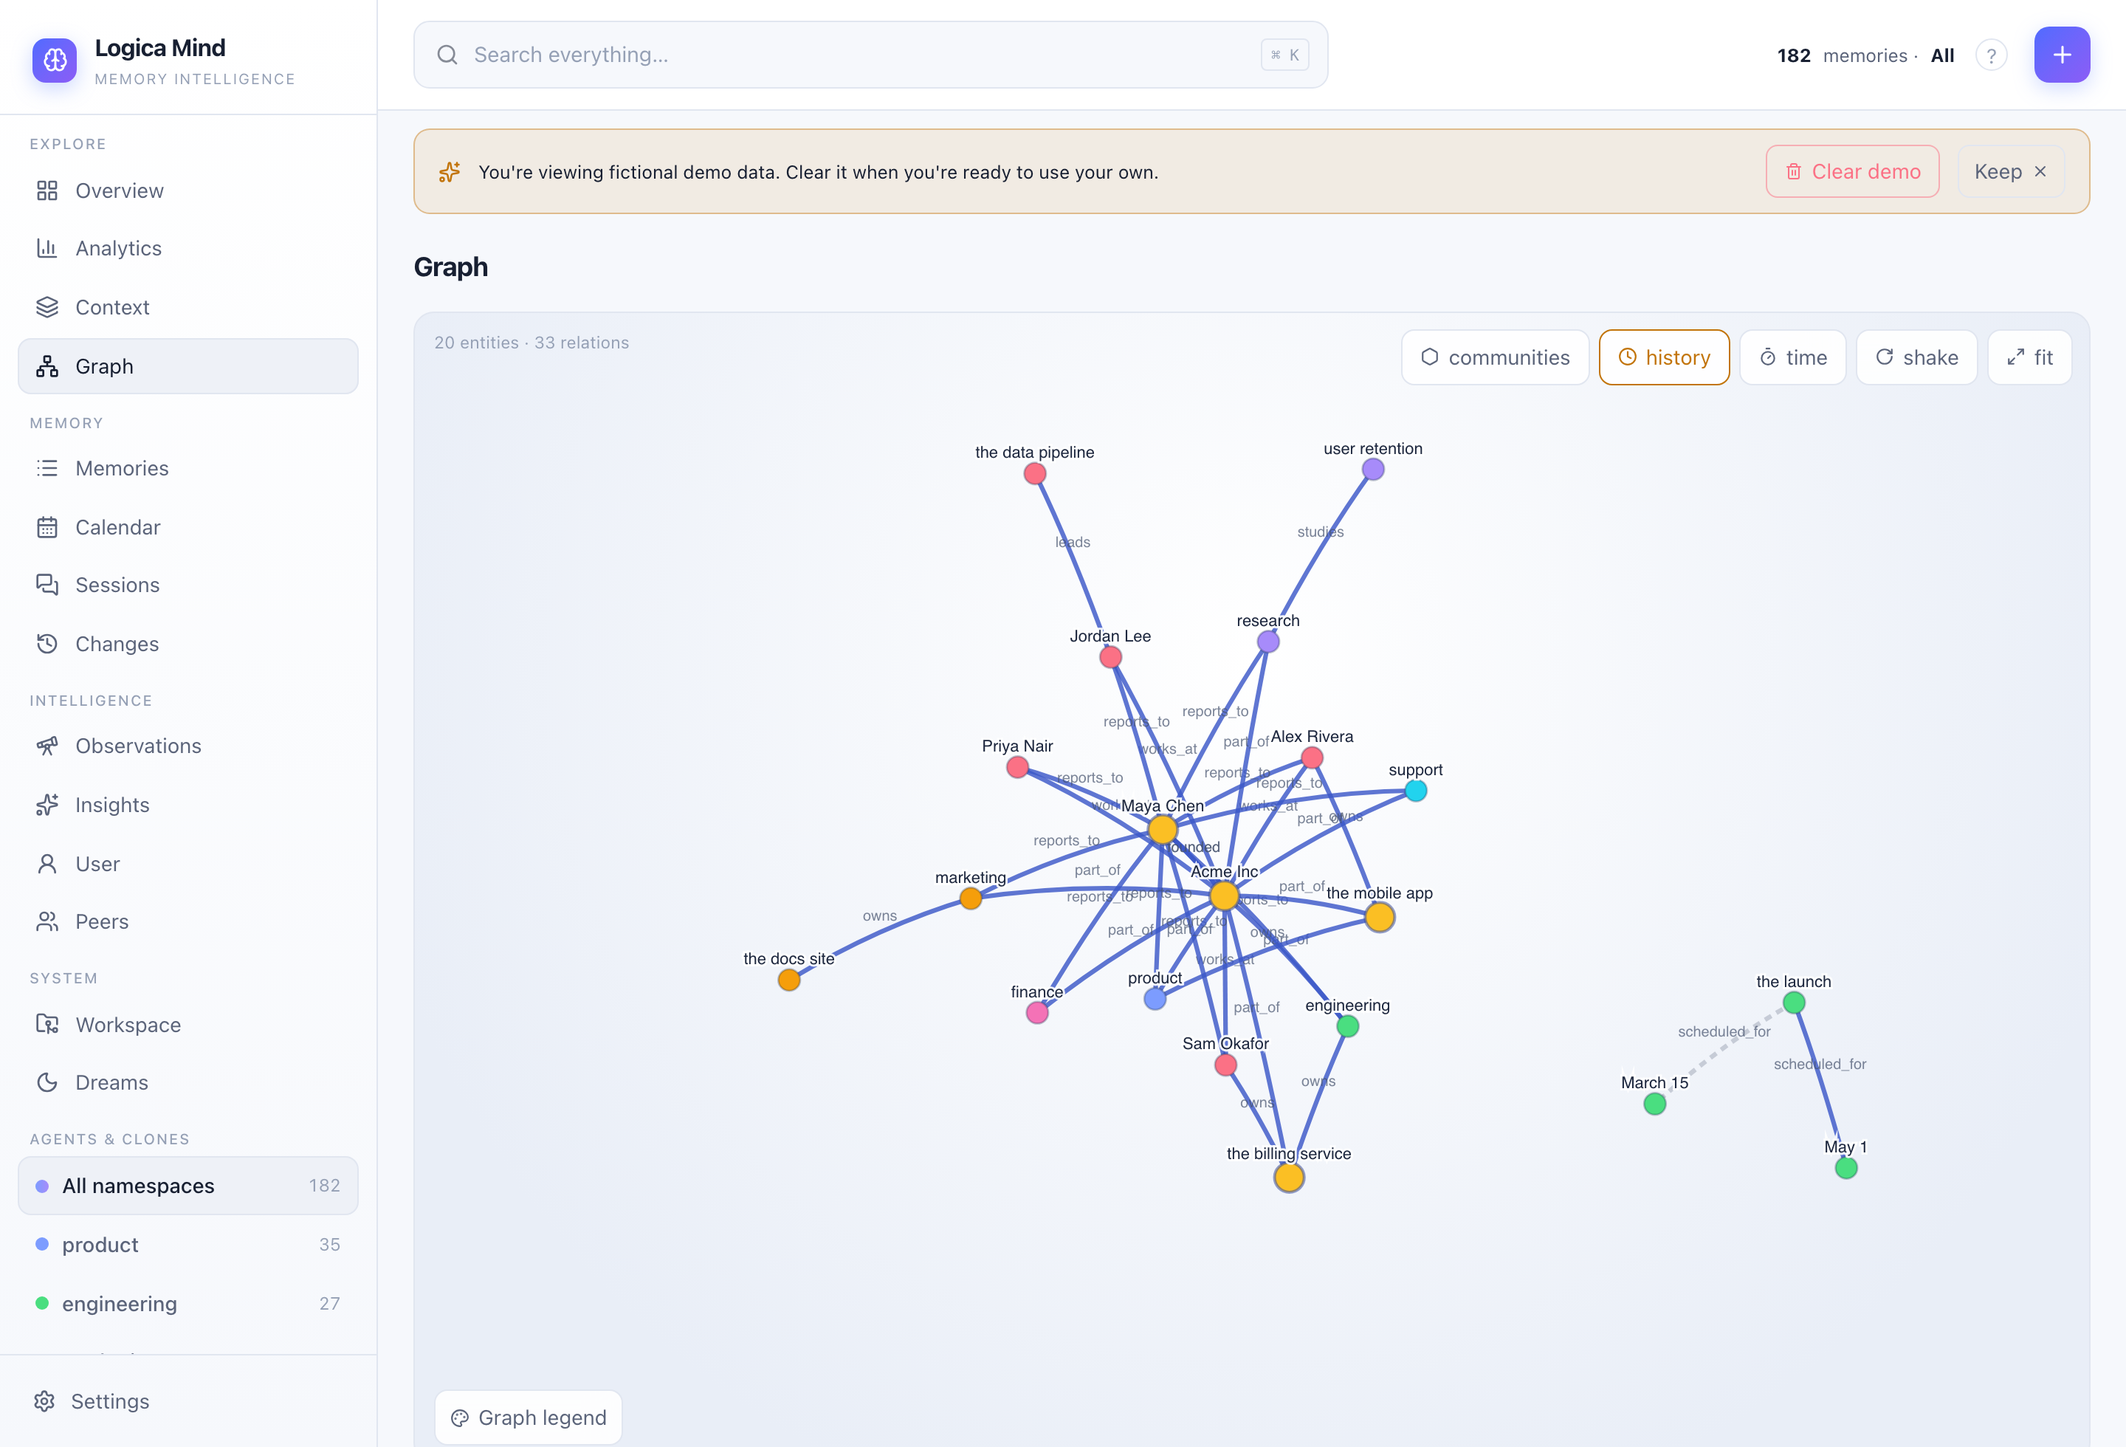
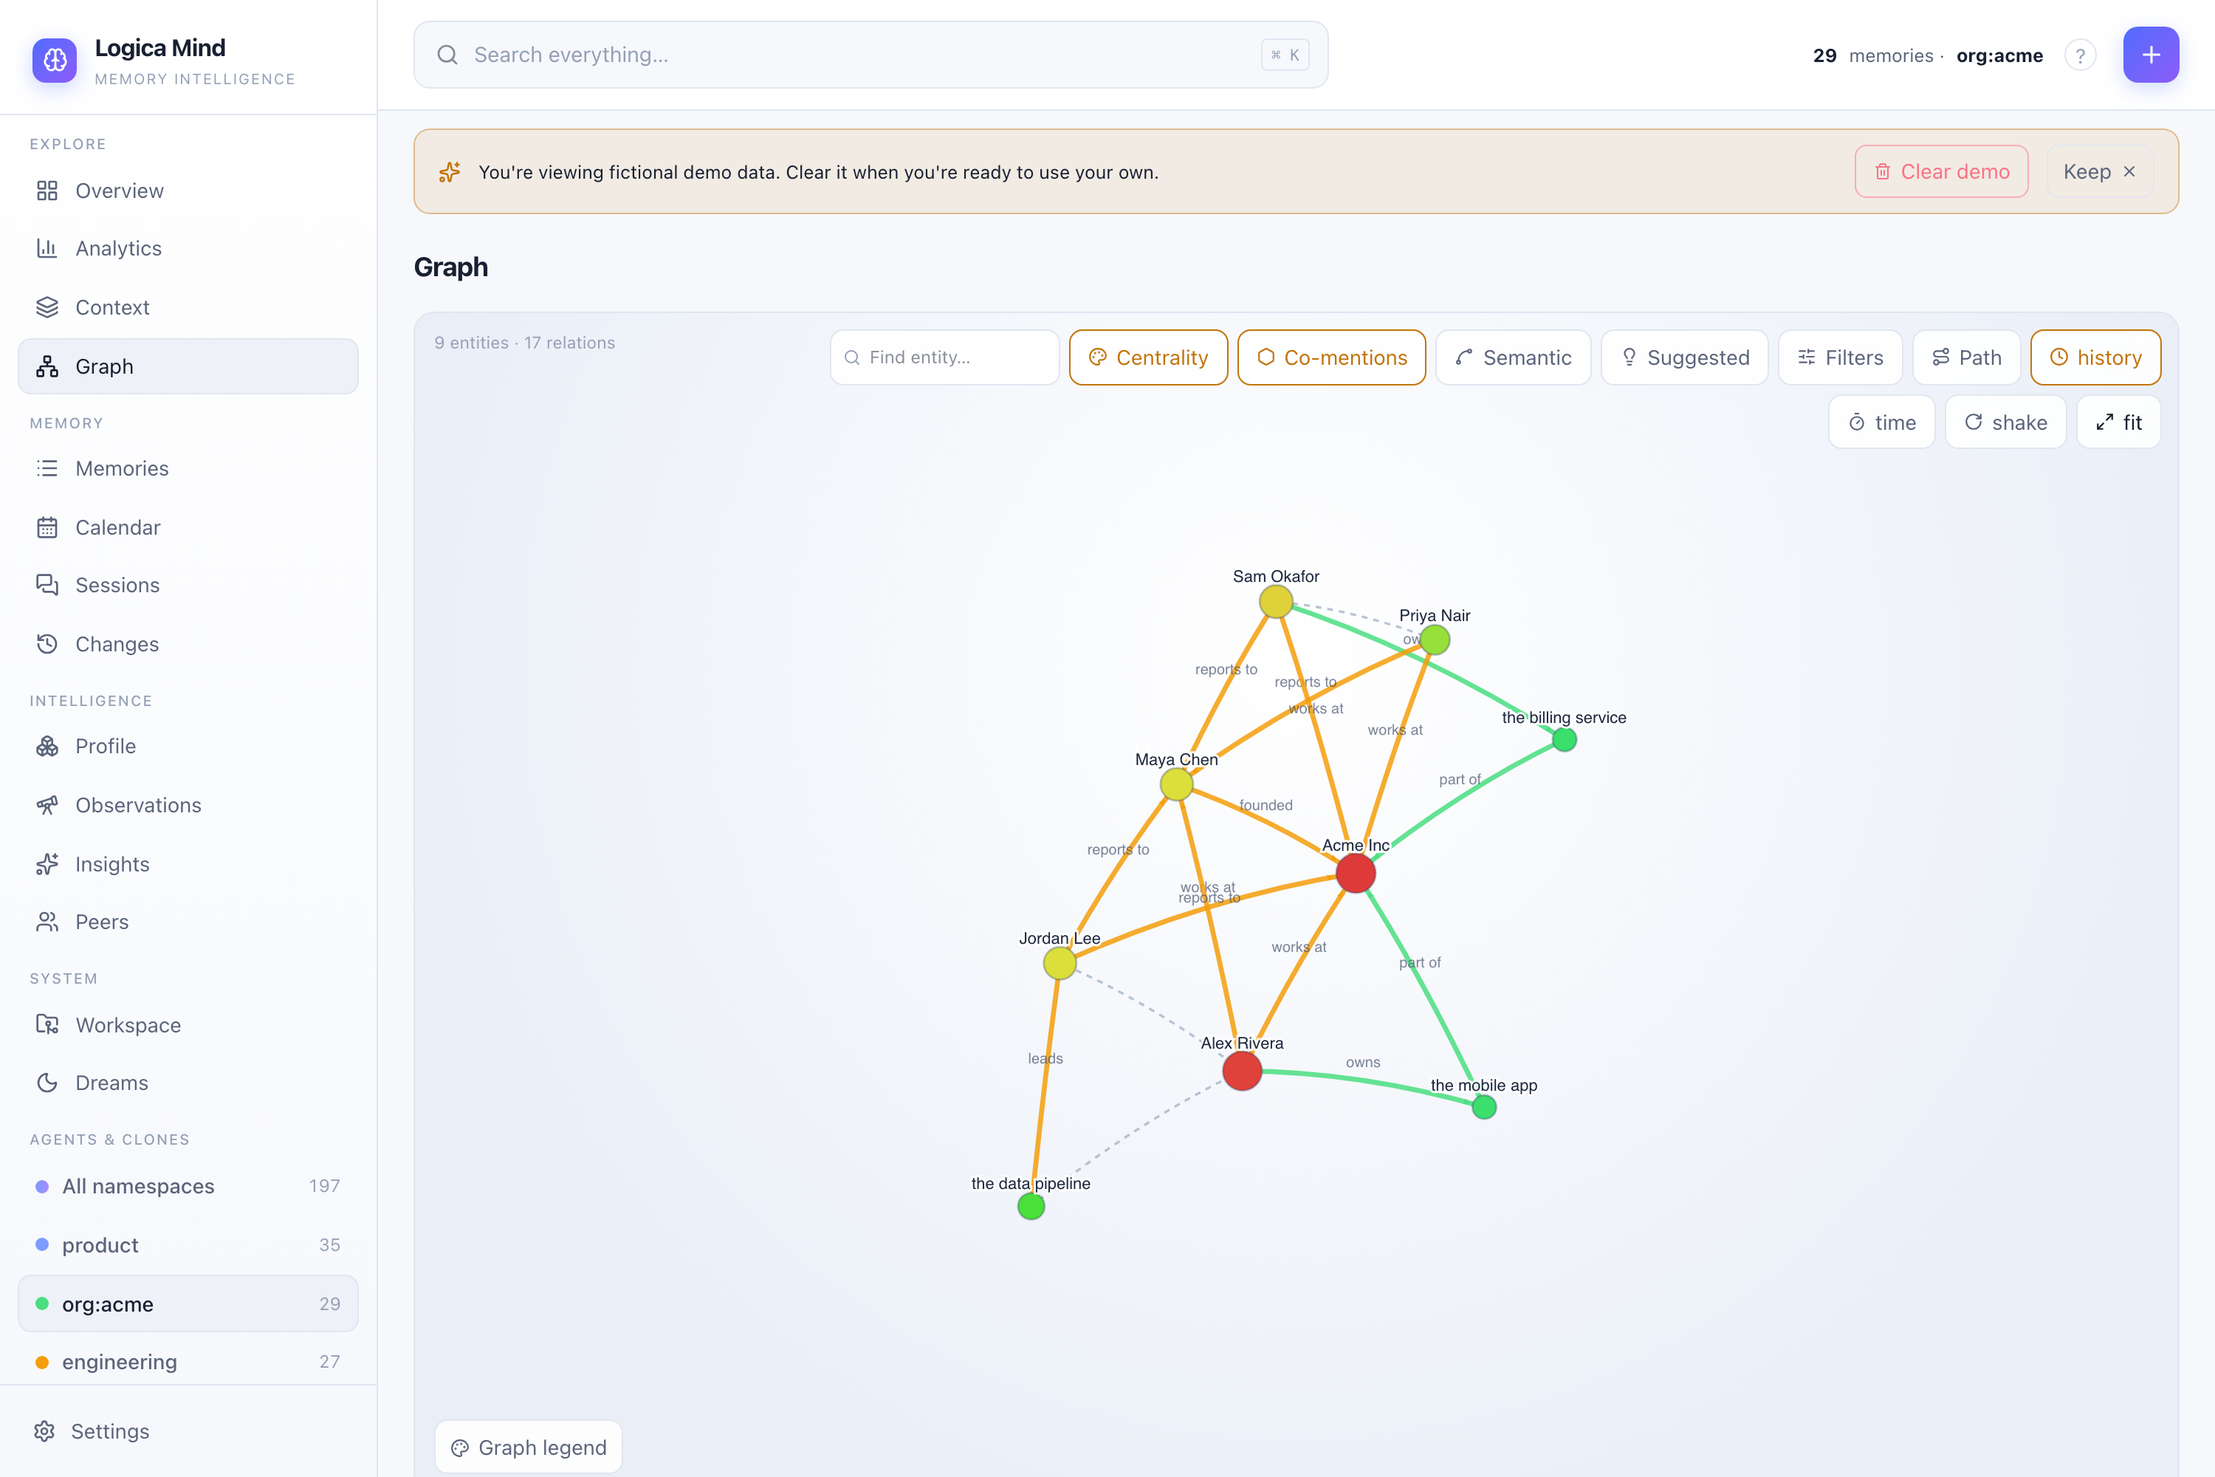
docs: document the intelligent graph (32 tools, 189 tests) + new screenshots
- knowledge-graph.md: connection layers, how_related, bridges, suggested
  links, local/hover/filters. mcp.md: a Graph-intelligence section with the
  3 new tools; counts 29→32. README hero + graph moat rewritten; badges
  189 tests / 32 tools. CHANGELOG Unreleased graph section.
- New light-theme screenshots: the edge-grammar graph (hero) + Path mode
  ('how is A related to B?') tracing & spotlighting a path.

diff --git a/README.md b/README.md
@@ -8,8 +8,8 @@
 
 [![License: Apache 2.0](https://img.shields.io/badge/License-Apache_2.0-blue.svg)](LICENSE)
 [![Python 3.10+](https://img.shields.io/badge/python-3.10%2B-blue.svg)](https://www.python.org/)
-[![Tests](https://img.shields.io/badge/tests-183%20passing-brightgreen.svg)](#%EF%B8%8F-building-from-source)
-[![MCP](https://img.shields.io/badge/MCP-29%20tools-8A2BE2.svg)](#-model-context-protocol-mcp)
+[![Tests](https://img.shields.io/badge/tests-189%20passing-brightgreen.svg)](#%EF%B8%8F-building-from-source)
+[![MCP](https://img.shields.io/badge/MCP-32%20tools-8A2BE2.svg)](#-model-context-protocol-mcp)
 [![PRs welcome](https://img.shields.io/badge/PRs-welcome-orange.svg)](CONTRIBUTING.md)
 
 </div>
@@ -34,14 +34,14 @@ mind.contradictions()            # every belief that changed value — and exact
 ```
 
 It runs fully offline on the standard library — **zero dependencies, no API key
-to start** — and is covered by **183 tests**, so you can verify every claim on
+to start** — and is covered by **189 tests**, so you can verify every claim on
 this page in five minutes. It then lights up Voyage, OpenAI, Supabase, Postgres
 or Redis whenever you want them.
 
 <div align="center">
-  <img src="docs/img/dashboard-graph.png" alt="Logica Mind dashboard — live temporal knowledge graph" width="100%">
+  <img src="docs/img/dashboard-graph.png" alt="Logica Mind dashboard — the intelligent temporal knowledge graph" width="100%">
   <br>
-  <em>The built-in dashboard: a live, animated knowledge graph with point-in-time replay, shared-entity detection across agents, and a one-click demo you can clear.</em>
+  <em>The built-in dashboard: edges hued by relation type, nodes sized by centrality, emergent co-mentions, a full filter bar, point-in-time replay — and intelligence (path-finding, bridges, suggested links) a hand-linked note graph can't have.</em>
 </div>
 
 ---
@@ -165,7 +165,7 @@ bundle = mind.export_bundle(secret=k)  # HMAC-signed, portable memory you can mo
 
 ### 🖥 Built to be lived in
 
-- **A live, animated graph explorer** — Obsidian-style canvas physics, community coloring, confidence-weighted edges, entity drill-down, and a **time-scrubber** that replays the graph at any date. Toggle **colour-by-life-area** to paint every entity by its dominant dimension (Person / Projects / Organization / Business) and filter the graph down to one area. Served by the standard library — no Node required for end users.
+- **A graph that explains itself** — not a hairball of identical lines. Edges are **hued by relation type** with directional arrows and confidence-weighted width; nodes are **sized by PageRank centrality** so hubs stand out. A real top filter bar: **colour by** namespace / community / life-area / centrality, toggle connection **layers** (relations, co-mentions, semantic affinity, suggested), search-to-focus, a min-confidence declutter slider, and per-relation-type filters. Plus the intelligence a hand-linked note graph can't have: **"how is A related to B?"** (a narrated, spotlighted path), **bridges** (load-bearing connectors), **suggested links** (the edge you're missing, predicted), a **local/ego graph** with a depth slider, **hover previews**, and a **time-scrubber** that replays the graph at any past date. Served by the standard library — no Node for end users.
 - **Backlinks that write themselves** — Obsidian makes you *type* `[[links]]`; here the connective tissue is **inferred**. Open any memory and the **Connected** panel shows the entities it mentions, the relations among them, other notes that touch the same entities, and siblings sharing its category — all derived from the graph, nothing to maintain. Click to walk note-to-note; `[[wikilinks]]` in content are clickable too. Exposed as `mind.connections(id)` and the `lm_connected` MCP tool.
 - **Context survives compaction** — a `PreCompact` hook distills the conversation into durable memory *right before the host truncates the window*, then brings the relevant slice back on the next session. The fix for "it compacted and we lost everything."
 - **Sessions that follow you across machines** — sessions auto-name from their first message, can be renamed and exported, and import directly from your local assistant history. Take your session index anywhere.
@@ -205,7 +205,7 @@ assistant's context layer.
 
 ## 🔌 Model Context Protocol (MCP)
 
-Logica Mind is a full MCP server — **29 tools** covering memory, recall, the
+Logica Mind is a full MCP server — **32 tools** covering memory, recall, the
 temporal graph, peers, dreaming, contested beliefs, the forgetting curve, GDPR
 erase and structured session records. Point any MCP client (Claude Code, Cursor,
 …) at it and your assistant gets durable, queryable memory:
@@ -286,7 +286,7 @@ Full guides live in [`docs/`](docs/):
 ```bash
 git clone https://github.com/Rovemark/logica-mind.git
 cd logica-mind
-pip install -e ".[dev]" && pytest -q          # 183 tests, fully offline
+pip install -e ".[dev]" && pytest -q          # 189 tests, fully offline
 
 # rebuild the dashboard (only if you change the UI)
 cd logica_mind/web/app && npm ci && npm run build
@@ -298,7 +298,7 @@ See [CONTRIBUTING.md](CONTRIBUTING.md) for the full guide.
 
 ## 📦 Status
 
-**v0.1.0 — Beta.** The full feature set above is shipped and covered by 183 tests.
+**v0.1.0 — Beta.** The full feature set above is shipped and covered by 189 tests.
 Episodic, semantic, temporal-graph and dialectic user memory; automatic
 extraction; embeddings + reranking; a temporal knowledge graph; sleep-time
 consolidation; an MCP server and a self-hosted dashboard — one cohesive library,

diff --git a/docs/knowledge-graph.md b/docs/knowledge-graph.md
@@ -343,6 +343,51 @@ Each node in the `graph_viz` payload also carries a `dimension` field when one c
 
 Any entity (and any memory) exposes its neighborhood through [`mind.connections(id)`](./connections.md) — the relations touching it, the other memories that mention it, and siblings of the same category. It's the derived-backlink layer the dashboard's **Connected** panel renders.
 
+## Graph intelligence
+
+The graph doesn't just draw — it reasons about its own structure. Each of these is pure-Python over the temporal graph (no LLM), exposed in the dashboard, the REST API and as an MCP tool.
+
+### Connection layers
+
+`graph_viz(layers=[…])` returns more than explicit relations. Every link carries a `kind`:
+
+- **relation** — an explicit typed edge (always on), `directed`, `weight` = confidence, plus a `pclass` (predicate class: social / has / causal / locative / temporal / is_a) the canvas hues it by.
+- **co_mention** — an *emergent* link between two entities a single memory names together, with no explicit edge. One regex scan, capped per memory. The computed version of Obsidian's "unlinked mention".
+- **semantic** — *opt-in*. Entity pairs whose memory-neighbourhoods are close in vector space but unlinked. Built from stored embeddings only (never embeds in the request path), capped to the busiest entities. Meaningful with a real embedder.
+
+Every node also carries a **`centrality`** (normalized PageRank) for sizing, a **`degree`**, and a **`bridge`** flag (see below).
+
+### How is A related to B?
+
+```python
+mind.how_related("the billing service", "Priya Nair")
+# → the billing service --part_of--> Acme Inc --works_at--> Priya Nair
+```
+
+A confidence-weighted shortest path (Dijkstra, cost = 1/confidence) returned as an ordered chain of **typed** hops. The dashboard's **Path** mode traces it and spotlights it on the canvas — path nodes gold-ringed, path edges gold, everything else dimmed. The question a graph of hand-authored, untyped links can't answer. MCP: `lm_how_related`.
+
+![Path mode — how is A related to B?](img/dashboard-graph-path.png)
+
+### Bridges
+
+```python
+mind.bridges()    # entities whose removal fragments the graph (articulation points)
+```
+
+The load-bearing connectors that broker between otherwise-separate clusters — often low-degree nodes that centrality ranking misses. Flagged on nodes (`bridge: true`) and ringed on the canvas. MCP: `lm_bridges`.
+
+### Suggested links (predict the missing edge)
+
+```python
+mind.suggested_links()   # pairs with a strong shared neighbourhood but no edge
+```
+
+Link prediction by Adamic-Adar: entity pairs with no direct relation but many common neighbours — "these two probably relate, you just never said so". A **Suggested** layer overlays them as dashed candidate edges. The biggest "nobody has this" moment — note tools make you author every link. MCP: `lm_suggested_links`.
+
+### Local graph, hover & filters
+
+The dashboard adds a **local/ego graph** (focus an entity → collapse to its neighbourhood, with a 1–3 hop depth slider), **hover previews** (a node's top facts without a click), search-to-focus, a min-confidence declutter slider, per-predicate-class filters, and **colour-by** (namespace / community / life-area / centrality) plus a highlight-by-query colour group.
+
 ---
 
 ## See also

diff --git a/docs/mcp.md b/docs/mcp.md
@@ -2,7 +2,7 @@
 
 Run Logica Mind as a Model Context Protocol (MCP) server so any MCP client — Claude Code, Cursor, Windsurf — can use it as durable, queryable memory.
 
-Logica Mind ships a full MCP server that exposes its memory verbs as **29 tools**. It speaks JSON-RPC 2.0 over stdio (newline-delimited) using only the Python standard library — no extra dependencies, no network service. Point an MCP client at it and your assistant gets long-term memory, a temporal knowledge graph, peer modeling, sleep-time consolidation and structured run history.
+Logica Mind ships a full MCP server that exposes its memory verbs as **32 tools**. It speaks JSON-RPC 2.0 over stdio (newline-delimited) using only the Python standard library — no extra dependencies, no network service. Point an MCP client at it and your assistant gets long-term memory, a temporal knowledge graph, peer modeling, sleep-time consolidation and structured run history.
 
 Like the rest of the library, the default setup is offline and zero-key: a SQLite store plus the built-in hashing embedder, no API keys required. See [Installation](./installation.md) for the dependency-free install.
 
@@ -61,7 +61,7 @@ Cursor uses the same shape. To pin a specific database and namespace, pass them 
 }
 ```
 
-After the client connects, the 29 tools below appear in its tool list. Both clients speak protocol version `2024-11-05`, which the server supports; if a client requests a version the server doesn't implement, the server advertises its own latest version and lets the client decide.
+After the client connects, the 32 tools below appear in its tool list. Both clients speak protocol version `2024-11-05`, which the server supports; if a client requests a version the server doesn't implement, the server advertises its own latest version and lets the client decide.
 
 ## Source attribution
 
@@ -83,7 +83,7 @@ If a client omits `clientInfo.name`, the source falls back to the generic `mcp`,
 }
 ```
 
-## The 29 tools
+## The 32 tools
 
 All tools are namespaced with the `lm_` prefix. Required arguments are noted; everything else is optional with sensible defaults.
 
@@ -112,6 +112,16 @@ The life/work dimension profile, and the derived backlinks built on top of it an
 |---|---|
 | `lm_dimensions` | The categorization profile: facts grouped by life/work dimension and Maslow tier, with the open categories under each. |
 | `lm_connected` | Derived backlinks for a memory — entities it mentions, the relations among them, and other memories that touch the same entities or category. No manual links needed. |
+
+### Graph intelligence
+
+Make the temporal graph EXPLAIN and PREDICT its own structure. See [Knowledge graph](./knowledge-graph.md).
+
+| Tool | Purpose |
+|---|---|
+| `lm_how_related` | How is entity A related to entity B? The confidence-weighted shortest path, as an ordered chain of typed relationships. |
+| `lm_bridges` | Load-bearing connectors — entities whose removal would fragment the graph (articulation points), the brokers between otherwise-separate clusters. |
+| `lm_suggested_links` | Predict the missing edge — entity pairs with no direct relation but a strong shared neighbourhood (Adamic-Adar). The links you probably should have but never authored. |
 
 ### User model & peers
 

diff --git a/CHANGELOG.md b/CHANGELOG.md
@@ -5,6 +5,23 @@ All notable changes to Logica Mind. Format loosely follows
 
 ## [Unreleased]
 
+### Graph intelligence
+- The knowledge graph became an instrument. Every link now carries a kind
+  (relation / co-mention / semantic), direction, weight and predicate class;
+  every node a PageRank **centrality** and a **bridge** flag. New connection
+  **layers**: emergent **co-mentions** and opt-in **semantic** affinity.
+- New reasoning: **`how_related(a, b)`** (narrated shortest path),
+  **`bridges()`** (articulation points), **`suggested_links()`** (Adamic-Adar
+  link prediction), and **`entity_unlinked()`** (unlinked mentions). Exposed
+  as `lm_how_related` / `lm_bridges` / `lm_suggested_links` and `/api/path`,
+  `/api/bridges`, `/api/suggested`. **MCP server is now 32 tools.**
+- Dashboard graph: an **edge grammar** (hue by relation type, arrows, width by
+  confidence, node size by centrality), a professional **top filter bar**
+  (colour-by, layer toggles, search-focus, min-confidence + predicate filters,
+  highlight-by-query), a **local/ego graph** with a depth slider, **hover
+  previews**, and **Path mode** that traces & spotlights "how is A related to
+  B?". Predicate labels localize (pt/es) with a graceful fallback.
+
 ### Fact categorization
 - Every durable fact is tagged with a **category** (an open label the LLM coins)
   and a **dimension** from a 34-dimension taxonomy across four groups — Personal

diff --git a/docs/README.md b/docs/README.md
@@ -25,7 +25,7 @@ New here? Start with **[Installation](installation.md)** → **[Quickstart](quic
 - [Sessions & run records](sessions-and-records.md) — session scoping and structured runs
 
 ### Interfaces
-- [MCP server](mcp.md) — use Logica Mind as a Model Context Protocol server (29 tools)
+- [MCP server](mcp.md) — use Logica Mind as a Model Context Protocol server (32 tools)
 - [Auto-capture hooks](hooks.md) — capture memory automatically across a session
 - [Integrations & SDKs](integrations.md) — LangChain, LlamaIndex, the provider adapter, the TypeScript SDK
 - [Dashboard](dashboard.md) — the self-hosted web UI

diff --git a/CONTRIBUTING.md b/CONTRIBUTING.md
@@ -16,7 +16,7 @@ source .venv/bin/activate        # Windows: .venv\Scripts\activate
 pip install -e ".[dev]"
 ```
 
-Run the full suite (roughly 183 tests; it is fully offline and needs no API
+Run the full suite (roughly 189 tests; it is fully offline and needs no API
 keys — it uses the default SQLite store and the offline hashing embedder):
 
 ```bash
